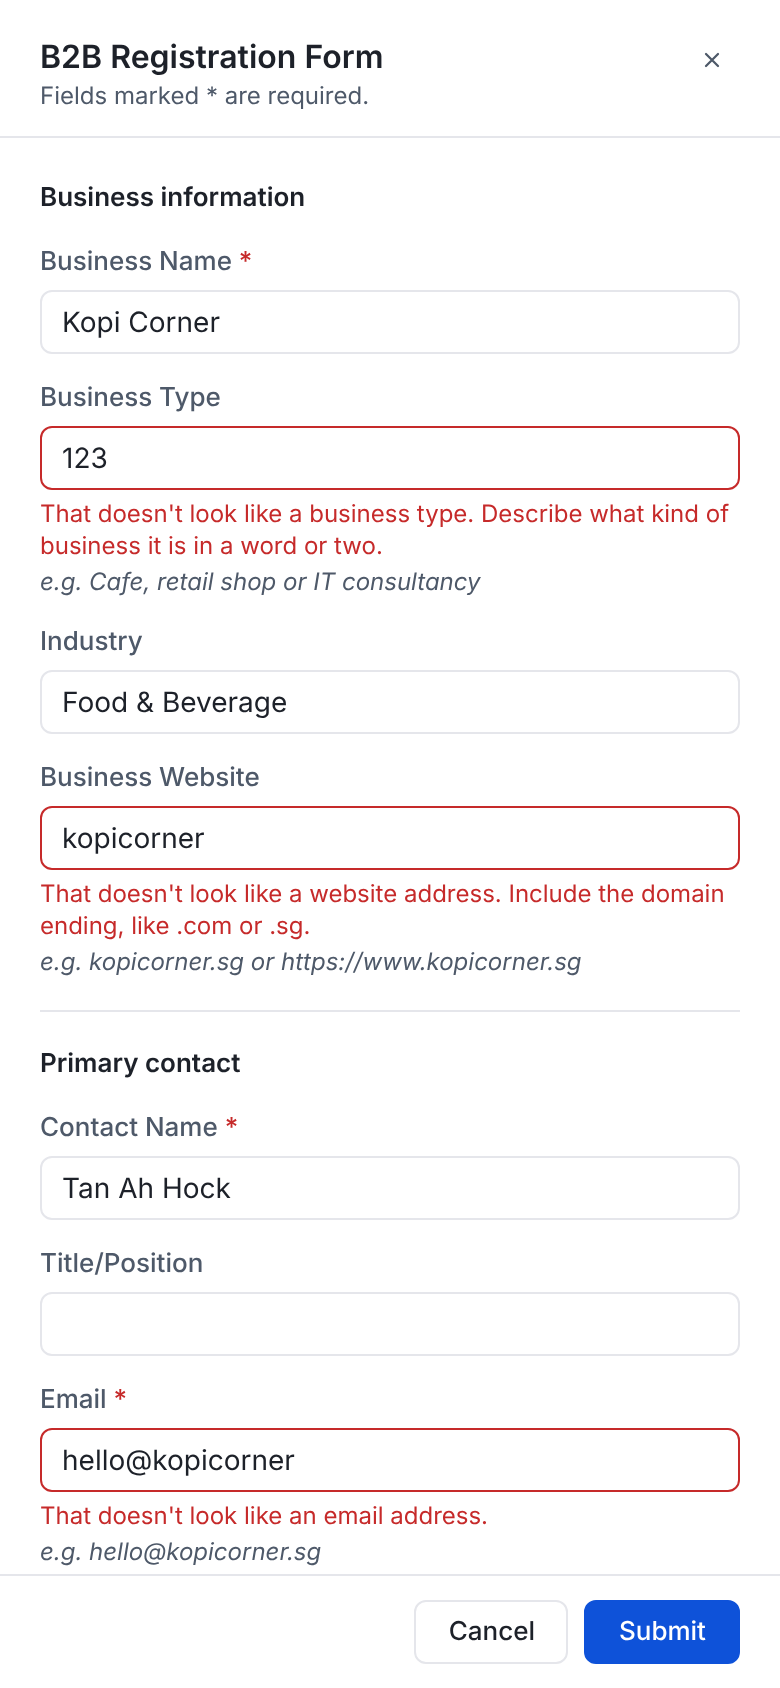
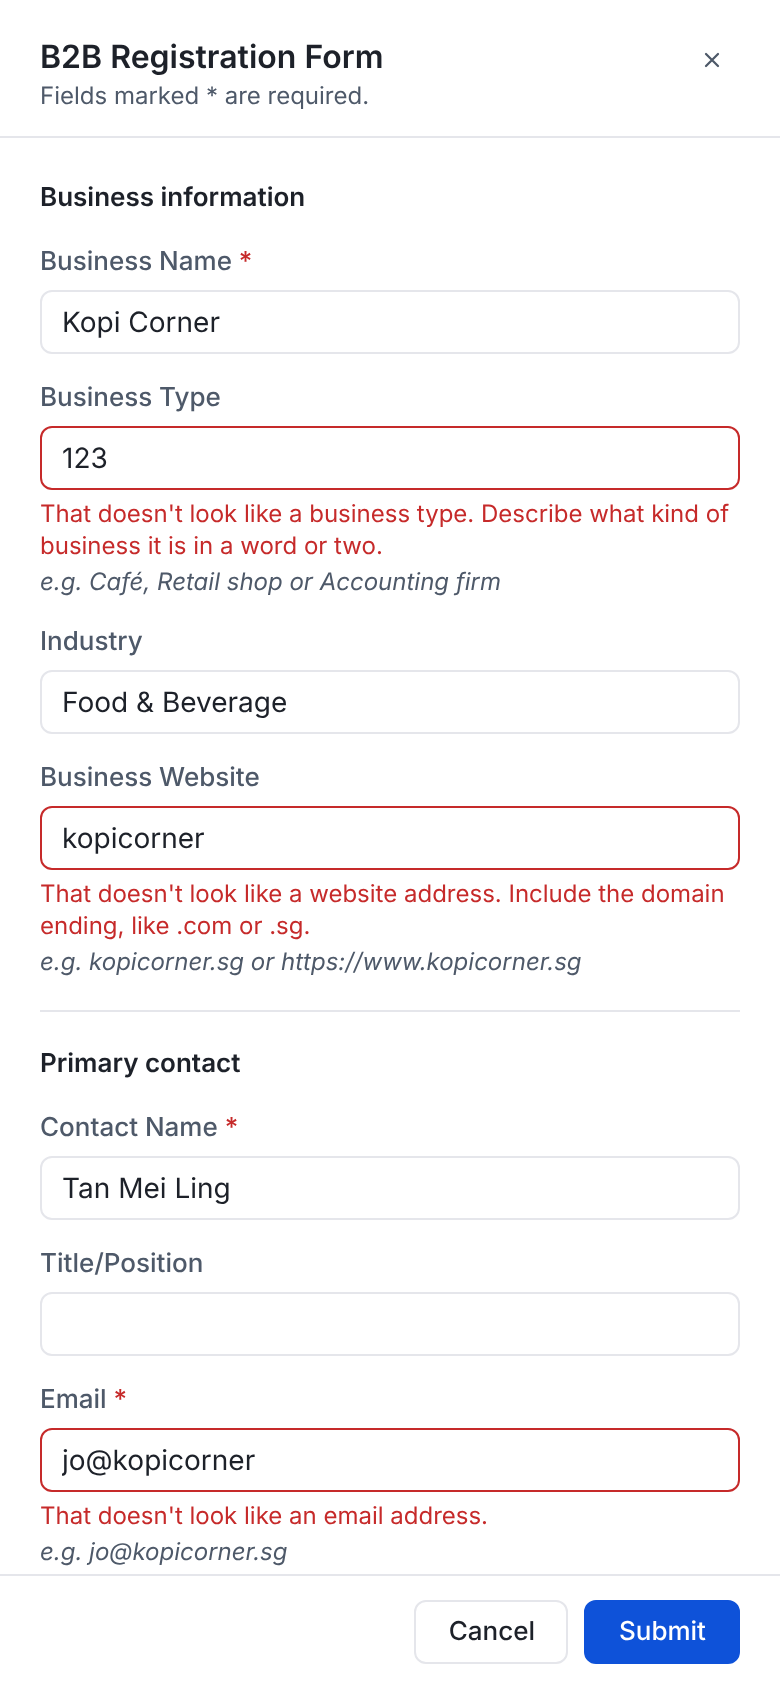
Form validation: align instant-check examples with server; screenshots against the real backend; resume-used (410) screens

diff --git a/web/src/validation.ts b/web/src/validation.ts
@@ -99,17 +99,17 @@ export const RULES: Record<FieldKey, Rule> = {
   business_name: {
     ok: (v) => v.length >= 2 && v.length <= 100 && letters(v) >= 1 && !/^[\d\W_]+$/u.test(v) && !junk(v),
     message: "That doesn't look like a business name. Please use your registered or trading name.",
-    example: "Kopi Corner Pte Ltd",
+    example: "Kopi Corner Pte Ltd or Acme Studio",
   },
   business_type: {
     ok: (v) => wordy(v, 2, 60),
     message: "That doesn't look like a business type. Describe what kind of business it is in a word or two.",
-    example: "Cafe, retail shop or IT consultancy",
+    example: "Café, Retail shop or Accounting firm",
   },
   industry: {
     ok: (v) => wordy(v, 2, 60),
     message: "That doesn't look like an industry. Use a word or two for your sector.",
-    example: "Food & Beverage or Healthcare",
+    example: "Food & Beverage, Retail or Professional Services",
   },
   business_website: {
     ok: (v) => WEBSITE_RE.test(v),
@@ -119,7 +119,7 @@ export const RULES: Record<FieldKey, Rule> = {
   contact_name: {
     ok: (v) => v.length >= 2 && v.length <= 80 && letters(v) >= 2 && !/\d/.test(v) && !junk(v),
     message: "That doesn't look like a person's name. Please use letters only.",
-    example: "Tan Ah Hock",
+    example: "Tan Mei Ling or John Lee",
   },
   title_position: {
     ok: (v) => wordy(v, 2, 60),
@@ -129,27 +129,27 @@ export const RULES: Record<FieldKey, Rule> = {
   email: {
     ok: (v) => EMAIL_RE.test(v),
     message: "That doesn't look like an email address.",
-    example: "hello@kopicorner.sg",
+    example: "jo@kopicorner.sg",
   },
   phone_number: {
     ok: (v) => !/[^\d+\s\-().]/.test(v) && /^\d{7,15}$/.test(v.replace(/[+\s\-().]/g, "")),
     message: "That doesn't look like a phone number. Use 7 to 15 digits, with an optional country code.",
-    example: "+65 6123 4567",
+    example: "+65 9123 4567 or (02) 9876-5432",
   },
   design_preferences: {
     ok: (v) => letters(v) >= 3 && hasVowelWord(v) && !junk(v),
     message: "Please describe the look you'd like in a few words.",
-    example: "warm retro kopitiam style, brown and cream colours",
+    example: "warm, minimal, brown and cream",
   },
   expected_annual_revenue: {
     ok: (v) => parseAmount(v) !== null,
-    message: "That doesn't look like an amount. Try a number or write it out in words.",
-    example: "$120,000, about 120k or five thousand dollars",
+    message: "That doesn't look like a revenue figure. It should be an amount, in digits or words.",
+    example: "S$250,000 or five thousand dollars",
   },
   requirements_notes: {
     ok: (v) => letters(v) >= 2,
     message: "Please write your notes in words.",
-    example: "Instagram posts for our new branch opening",
+    example: "Need a logo and 5 Instagram posts by December",
   },
 };
 
